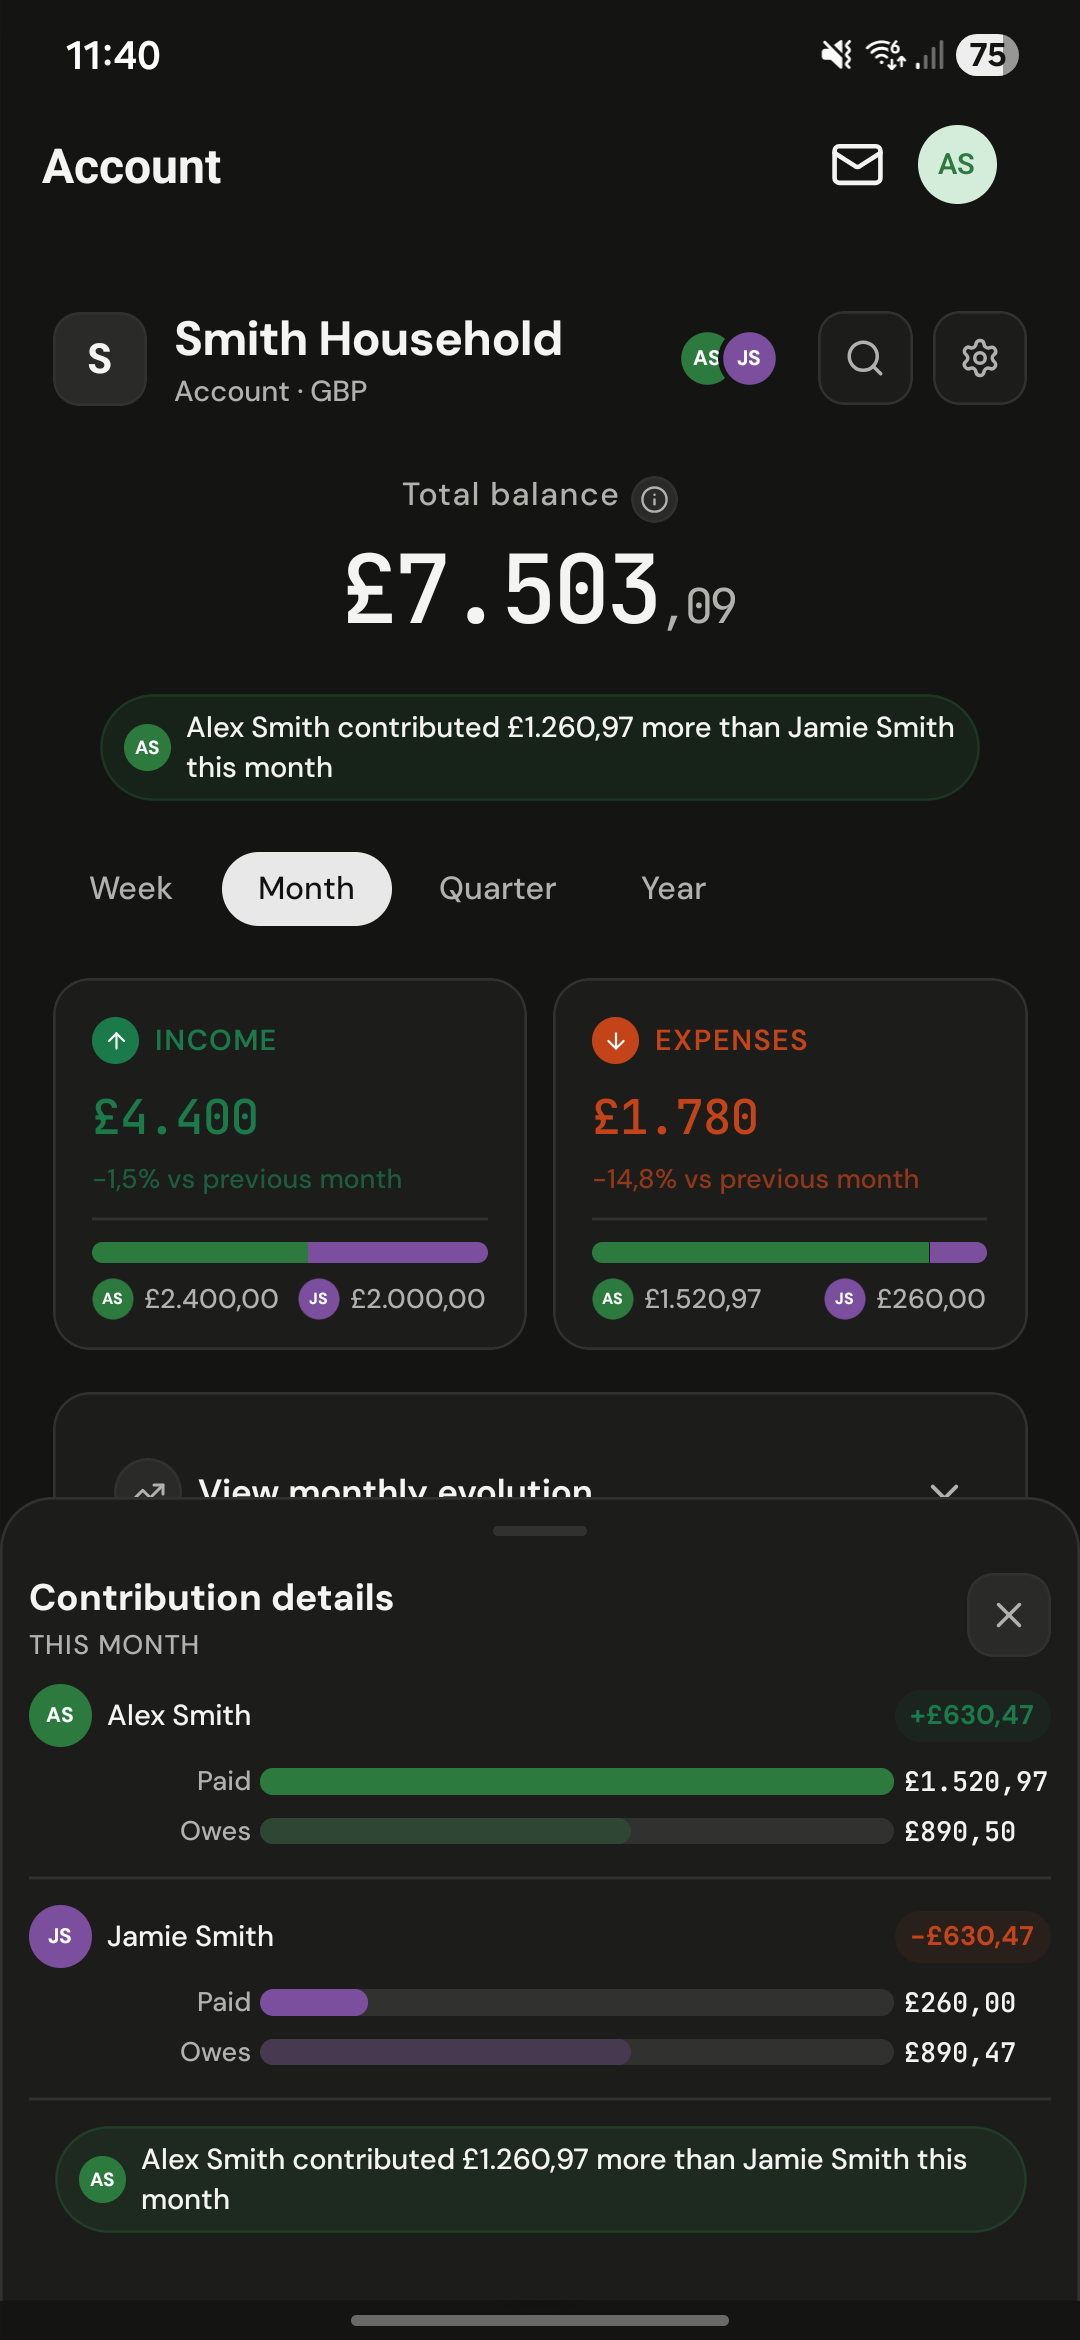
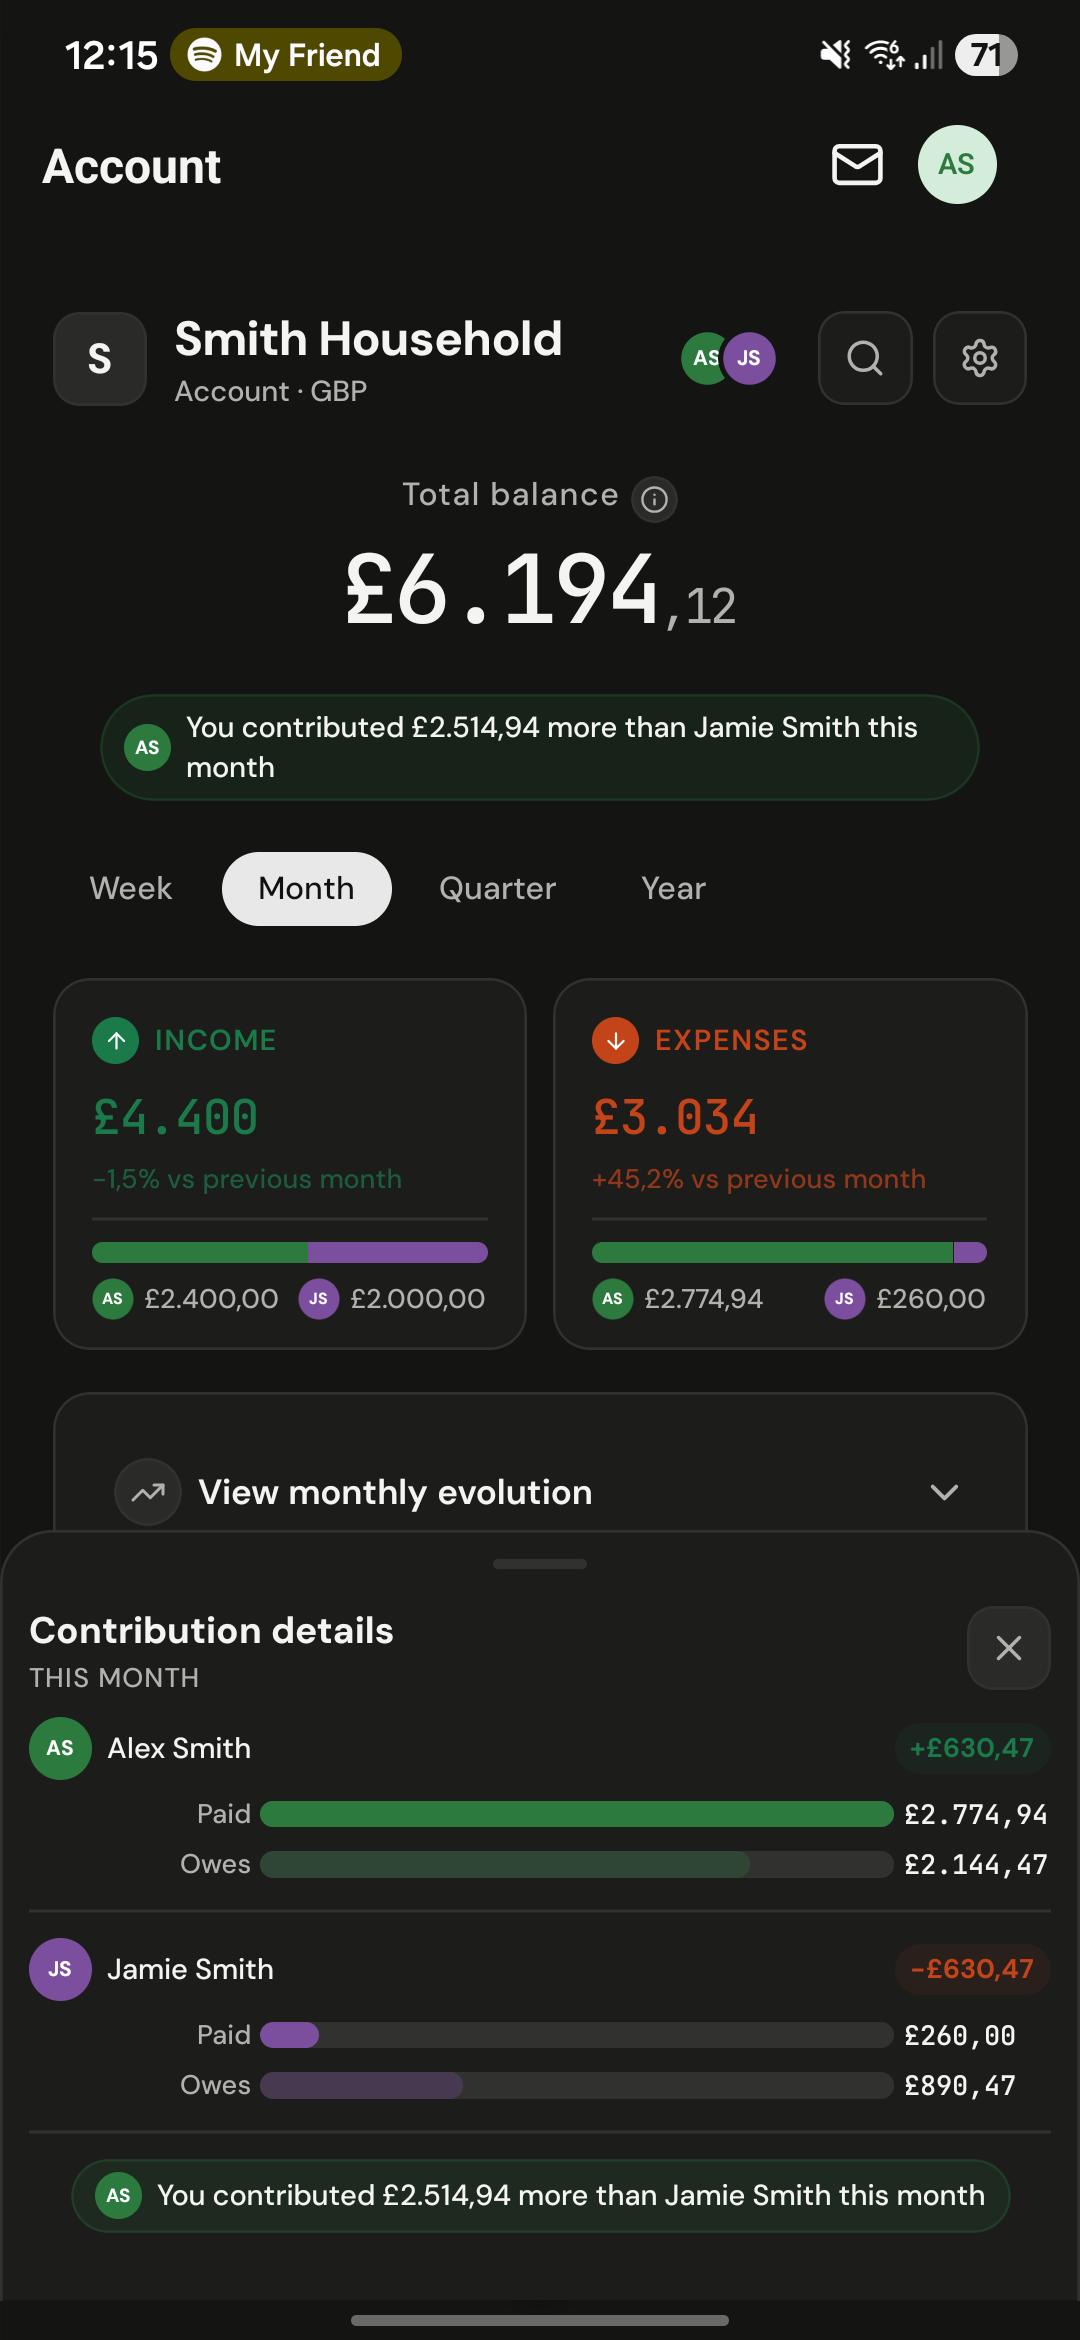
landing

diff --git a/apps/mobile/src/components/account-redesign/components/account/ContributionBalanceSection.tsx b/apps/mobile/src/components/account-redesign/components/account/ContributionBalanceSection.tsx
@@ -1,14 +1,10 @@
-import { useMemo, useRef, useState } from "react";
+import { useMemo } from "react";
 import {
-  Animated,
-  Easing,
-  LayoutChangeEvent,
   Pressable,
   StyleSheet,
   Text,
   View,
 } from "react-native";
-import { ChevronDown, ChevronUp } from "lucide-react-native";
 import { useCopy, t } from "../../../../lib/i18n";
 import { useUserTheme } from "../../../../contexts/UserThemeContext";
 import type {
@@ -21,7 +17,6 @@ import { colors, spacing, typography, radii } from "../../theme/tokens";
 import { CategoryIcon } from "../../../CategoryIcon";
 
 const DEFAULT_VISIBLE_CATEGORIES = 2;
-const EXTRA_ANIMATION_DURATION_MS = 250;
 
 interface ContributionBalanceSectionProps {
   data: ContributionBalanceData | null;
@@ -39,18 +34,8 @@ export function ContributionBalanceSection({
   onCategoryPress,
 }: ContributionBalanceSectionProps) {
   const { dictionary } = useCopy();
-  const { tokens: userTokens, primaryActionColor } = useUserTheme();
+  const { tokens: userTokens } = useUserTheme();
   const translate = t as any;
-  const [expandedByType, setExpandedByType] = useState<{ expense: boolean; income: boolean }>({
-    expense: false,
-    income: false,
-  });
-  const [extraHeights, setExtraHeights] = useState<{ expense: number; income: number }>({
-    expense: 0,
-    income: 0,
-  });
-  const expenseExtraAnimation = useRef(new Animated.Value(0)).current;
-  const incomeExtraAnimation = useRef(new Animated.Value(0)).current;
 
   const contributorByUserId = useMemo(
     () => new Map(contributors.map((contributor) => [contributor.userId, contributor])),
@@ -61,32 +46,6 @@ export function ContributionBalanceSection({
   const isCollaborative = contributors.length >= 2 && (data?.members.length ?? 0) >= 2;
 
   if (!data) return null;
-
-  const animateExtraCategories = (type: "expense" | "income", expand: boolean) => {
-    const animation = type === "expense" ? expenseExtraAnimation : incomeExtraAnimation;
-    Animated.timing(animation, {
-      toValue: expand ? 1 : 0,
-      duration: EXTRA_ANIMATION_DURATION_MS,
-      easing: Easing.out(Easing.cubic),
-      useNativeDriver: false,
-    }).start();
-  };
-
-  const toggleExpanded = (type: "expense" | "income") => {
-    const nextExpanded = !expandedByType[type];
-    setExpandedByType((current) => ({ ...current, [type]: nextExpanded }));
-    animateExtraCategories(type, nextExpanded);
-  };
-
-  const handleExtraMeasure = (type: "expense" | "income", event: LayoutChangeEvent) => {
-    const nextHeight = event.nativeEvent.layout.height;
-    setExtraHeights((current) => {
-      if (Math.abs(current[type] - nextHeight) <= 1) {
-        return current;
-      }
-      return { ...current, [type]: nextHeight };
-    });
-  };
 
   const renderSection = (
     type: "expense" | "income",
@@ -103,23 +62,6 @@ export function ContributionBalanceSection({
       ? translate(dictionary, "account.redesign.categorySpendingTitle")
       : translate(dictionary, "account.redesign.incomeByCategoryTitle");
     const leadingCategories = sortedCategories.slice(0, DEFAULT_VISIBLE_CATEGORIES);
-    const extraCategories = sortedCategories.slice(DEFAULT_VISIBLE_CATEGORIES);
-    const hasMoreCategories = extraCategories.length > 0;
-    const isExpanded = expandedByType[type];
-    const remainingCategoriesCount = extraCategories.length;
-    const extraAnimation = type === "expense" ? expenseExtraAnimation : incomeExtraAnimation;
-    const animatedHeight = extraAnimation.interpolate({
-      inputRange: [0, 1],
-      outputRange: [0, Math.max(extraHeights[type], 1)],
-    });
-    const animatedOpacity = extraAnimation.interpolate({
-      inputRange: [0, 1],
-      outputRange: [0, 1],
-    });
-    const animatedTranslateY = extraAnimation.interpolate({
-      inputRange: [0, 1],
-      outputRange: [8, 0],
-    });
 
     const renderCategoryRow = (
       category: ContributionCategorySummary,
@@ -269,70 +211,10 @@ export function ContributionBalanceSection({
         <View style={styles.categoryList}>
           {leadingCategories.map((category, index) =>
             renderCategoryRow(category, {
-              showBorder:
-                index < leadingCategories.length - 1 ||
-                (isExpanded && extraCategories.length > 0),
+              showBorder: index < leadingCategories.length - 1,
               interactive: true,
             })
           )}
-
-          {hasMoreCategories ? (
-            <View style={styles.extraCategoriesWrapper}>
-              <View style={styles.extraMeasureLayer} pointerEvents="none">
-                <View onLayout={(event) => handleExtraMeasure(type, event)}>
-                  {extraCategories.map((category, index) =>
-                    renderCategoryRow(category, {
-                      showBorder: index < extraCategories.length - 1,
-                      interactive: false,
-                      keyPrefix: "measure",
-                    })
-                  )}
-                </View>
-              </View>
-
-              <Animated.View
-                style={[
-                  styles.extraCategoriesAnimated,
-                  {
-                    height: animatedHeight,
-                    opacity: animatedOpacity,
-                    transform: [{ translateY: animatedTranslateY }],
-                  },
-                ]}
-                pointerEvents={isExpanded ? "auto" : "none"}
-              >
-                {extraCategories.map((category, index) =>
-                  renderCategoryRow(category, {
-                    showBorder: index < extraCategories.length - 1,
-                    interactive: true,
-                  })
-                )}
-              </Animated.View>
-            </View>
-          ) : null}
-
-          {hasMoreCategories ? (
-            <Pressable
-              onPress={() => toggleExpanded(type)}
-              style={({ pressed }) => [
-                styles.viewMoreButton,
-                pressed && styles.viewMoreButtonPressed,
-              ]}
-            >
-              <Text style={[styles.viewMoreText, { color: primaryActionColor }]}>
-                {isExpanded
-                  ? translate(dictionary, "account.view_less")
-                  : translate(dictionary, "account.view_more_categories", {
-                      n: remainingCategoriesCount,
-                    })}
-              </Text>
-              {isExpanded ? (
-                <ChevronUp size={16} color={primaryActionColor} />
-              ) : (
-                <ChevronDown size={16} color={primaryActionColor} />
-              )}
-            </Pressable>
-          ) : null}
         </View>
       </View>
     );
@@ -369,19 +251,6 @@ const styles = StyleSheet.create({
   },
   categoryList: {
     gap: spacing.sm,
-  },
-  extraCategoriesWrapper: {
-    position: "relative",
-  },
-  extraMeasureLayer: {
-    position: "absolute",
-    left: 0,
-    right: 0,
-    opacity: 0,
-    pointerEvents: "none",
-  },
-  extraCategoriesAnimated: {
-    overflow: "hidden",
   },
   categoryItem: {
     paddingVertical: spacing.sm,
@@ -451,21 +320,5 @@ const styles = StyleSheet.create({
   },
   barSegment: {
     height: "100%",
-  },
-  viewMoreButton: {
-    marginTop: spacing.xs,
-    paddingVertical: spacing.sm,
-    flexDirection: "row",
-    alignItems: "center",
-    justifyContent: "center",
-    gap: spacing.xs,
-    alignSelf: "flex-start",
-  },
-  viewMoreButtonPressed: {
-    opacity: 0.74,
-  },
-  viewMoreText: {
-    fontSize: typography.size.sm,
-    fontFamily: typography.family.sansSemiBold,
   },
 });

diff --git a/apps/web/src/components/account/account-redesign-client.tsx b/apps/web/src/components/account/account-redesign-client.tsx
@@ -20,9 +20,10 @@ const DEFAULT_VISIBLE_CONTRIBUTION_CATEGORIES = 2;
 
 type AccountRedesignClientProps = {
   dataByPeriod: Record<AccountRedesignPeriod, AccountRedesignData>;
+  currentUserId?: string | null;
 };
 
-export function AccountRedesignClient({ dataByPeriod }: AccountRedesignClientProps) {
+export function AccountRedesignClient({ dataByPeriod, currentUserId = null }: AccountRedesignClientProps) {
   const t = useTranslations();
   const { resolvedMode } = useWebUserTheme();
   const [selectedPeriod, setSelectedPeriod] = useState<Period>("month");
@@ -132,6 +133,7 @@ export function AccountRedesignClient({ dataByPeriod }: AccountRedesignClientPro
     const trailing = sorted[sorted.length - 1];
     const diff = leader.totalPaid - trailing.totalPaid;
     const thresholdMajor = 100 / Math.pow(10, currencyDecimals);
+    const isLeaderCurrentUser = leader.userId === currentUserId;
     if (diff < thresholdMajor) {
       return {
         text: t("account.redesign.contributionBannerEqual", { period: periodLabel }),
@@ -141,19 +143,24 @@ export function AccountRedesignClient({ dataByPeriod }: AccountRedesignClientPro
     }
 
     return {
-      text: t("account.redesign.contributionBanner", {
-        name: leader.name,
-        amount: formatCurrency(diff, {
-          currency: currencySymbol,
-          decimals: currencyDecimals,
-        }).full,
-        otherName: trailing.name,
-        period: periodLabel,
-      }),
+      text: t(
+        isLeaderCurrentUser
+          ? "account.redesign.contributionBannerSelf"
+          : "account.redesign.contributionBanner",
+        {
+          name: leader.name,
+          amount: formatCurrency(diff, {
+            currency: currencySymbol,
+            decimals: currencyDecimals,
+          }).full,
+          otherName: trailing.name,
+          period: periodLabel,
+        }
+      ),
       color: leader.color,
       initials: leader.initials,
     };
-  }, [contributionData, currencyDecimals, currencySymbol, isCollaborative, periodLabel, t]);
+  }, [contributionData, currencyDecimals, currencySymbol, currentUserId, isCollaborative, periodLabel, t]);
 
   const contributionDetail = useMemo(() => {
     if (!isCollaborative || !contributionData) return null;

diff --git a/apps/mobile/src/components/account-redesign/components/account/ContributionPeriodBanner.tsx b/apps/mobile/src/components/account-redesign/components/account/ContributionPeriodBanner.tsx
@@ -11,6 +11,7 @@ import {
 import { typography, spacing, radii } from "../../theme/tokens";
 import { formatCurrency } from "../../utils/currency";
 import { useUserTheme } from "../../../../contexts/UserThemeContext";
+import { useAuth } from "../../../../contexts/AuthContext";
 import { useCopy, t } from "../../../../lib/i18n";
 import { X } from "lucide-react-native";
 import type {
@@ -56,6 +57,7 @@ export function ContributionPeriodBanner({
 }: ContributionPeriodBannerProps) {
   const { dictionary } = useCopy();
   const { tokens: userTokens } = useUserTheme();
+  const { user } = useAuth();
   const [detailOpen, setDetailOpen] = useState(false);
   const detailScrollOffsetY = useRef(0);
   const translate = t as any;
@@ -94,6 +96,7 @@ export function ContributionPeriodBanner({
     const threshold = 100 / Math.pow(10, decimals);
 
     const contributor = contributors.find((item) => item.userId === leader.userId);
+    const isLeaderCurrentUser = leader.userId === user?.id;
 
     if (diff < threshold) {
       return {
@@ -106,16 +109,22 @@ export function ContributionPeriodBanner({
     }
 
     return {
-      message: translate(dictionary, "account.redesign.contributionBanner", {
-        name: leader.name,
-        amount: formatCurrency(diff, { currency, decimals }).full,
-        otherName: trailing.name,
-        period: periodLabel,
-      }),
+      message: translate(
+        dictionary,
+        isLeaderCurrentUser
+          ? "account.redesign.contributionBannerSelf"
+          : "account.redesign.contributionBanner",
+        {
+          name: leader.name,
+          amount: formatCurrency(diff, { currency, decimals }).full,
+          otherName: trailing.name,
+          period: periodLabel,
+        }
+      ),
       initials: contributor?.initials ?? leader.initials,
       color: contributor?.color ?? leader.color,
     };
-  }, [contributionBalance, contributors, currency, decimals, dictionary, period]);
+  }, [contributionBalance, contributors, currency, decimals, dictionary, period, user?.id]);
 
   if (!contributionBanner) return null;
 

diff --git a/apps/web/src/app/account/page.tsx b/apps/web/src/app/account/page.tsx
@@ -778,7 +778,7 @@ export default async function AccountPage(): Promise<JSX.Element> {
     <div className={cn("min-h-screen bg-background", dmSans.variable, jetbrains.variable)}>
       <TopNav />
       <PageContainer className="space-y-6">
-        <AccountRedesignClient dataByPeriod={dataByPeriod} />
+        <AccountRedesignClient dataByPeriod={dataByPeriod} currentUserId={user.id} />
       </PageContainer>
       {/* Bottom padding for mobile nav */}
       <div className="h-16 sm:hidden" />

diff --git a/packages/shared/src/copy/locales/es.ts b/packages/shared/src/copy/locales/es.ts
@@ -1124,6 +1124,8 @@ export const es = {
       balanceDetailPeriodContext: "Este {period}",
       contributionBanner:
         "{name} contribuyó en {amount} más que {otherName} este {period}",
+      contributionBannerSelf:
+        "Contribuiste {amount} más que {otherName} este {period}",
       contributionBannerEqual:
         "Las contribuciones están equilibradas este {period}",
       contribution: {

diff --git a/packages/shared/src/copy/locales/en.ts b/packages/shared/src/copy/locales/en.ts
@@ -1122,6 +1122,8 @@ export const en = {
       balanceDetailPeriodContext: "This {period}",
       contributionBanner:
         "{name} contributed {amount} more than {otherName} this {period}",
+      contributionBannerSelf:
+        "You contributed {amount} more than {otherName} this {period}",
       contributionBannerEqual:
         "Contributions are balanced this {period}",
       contribution: {
